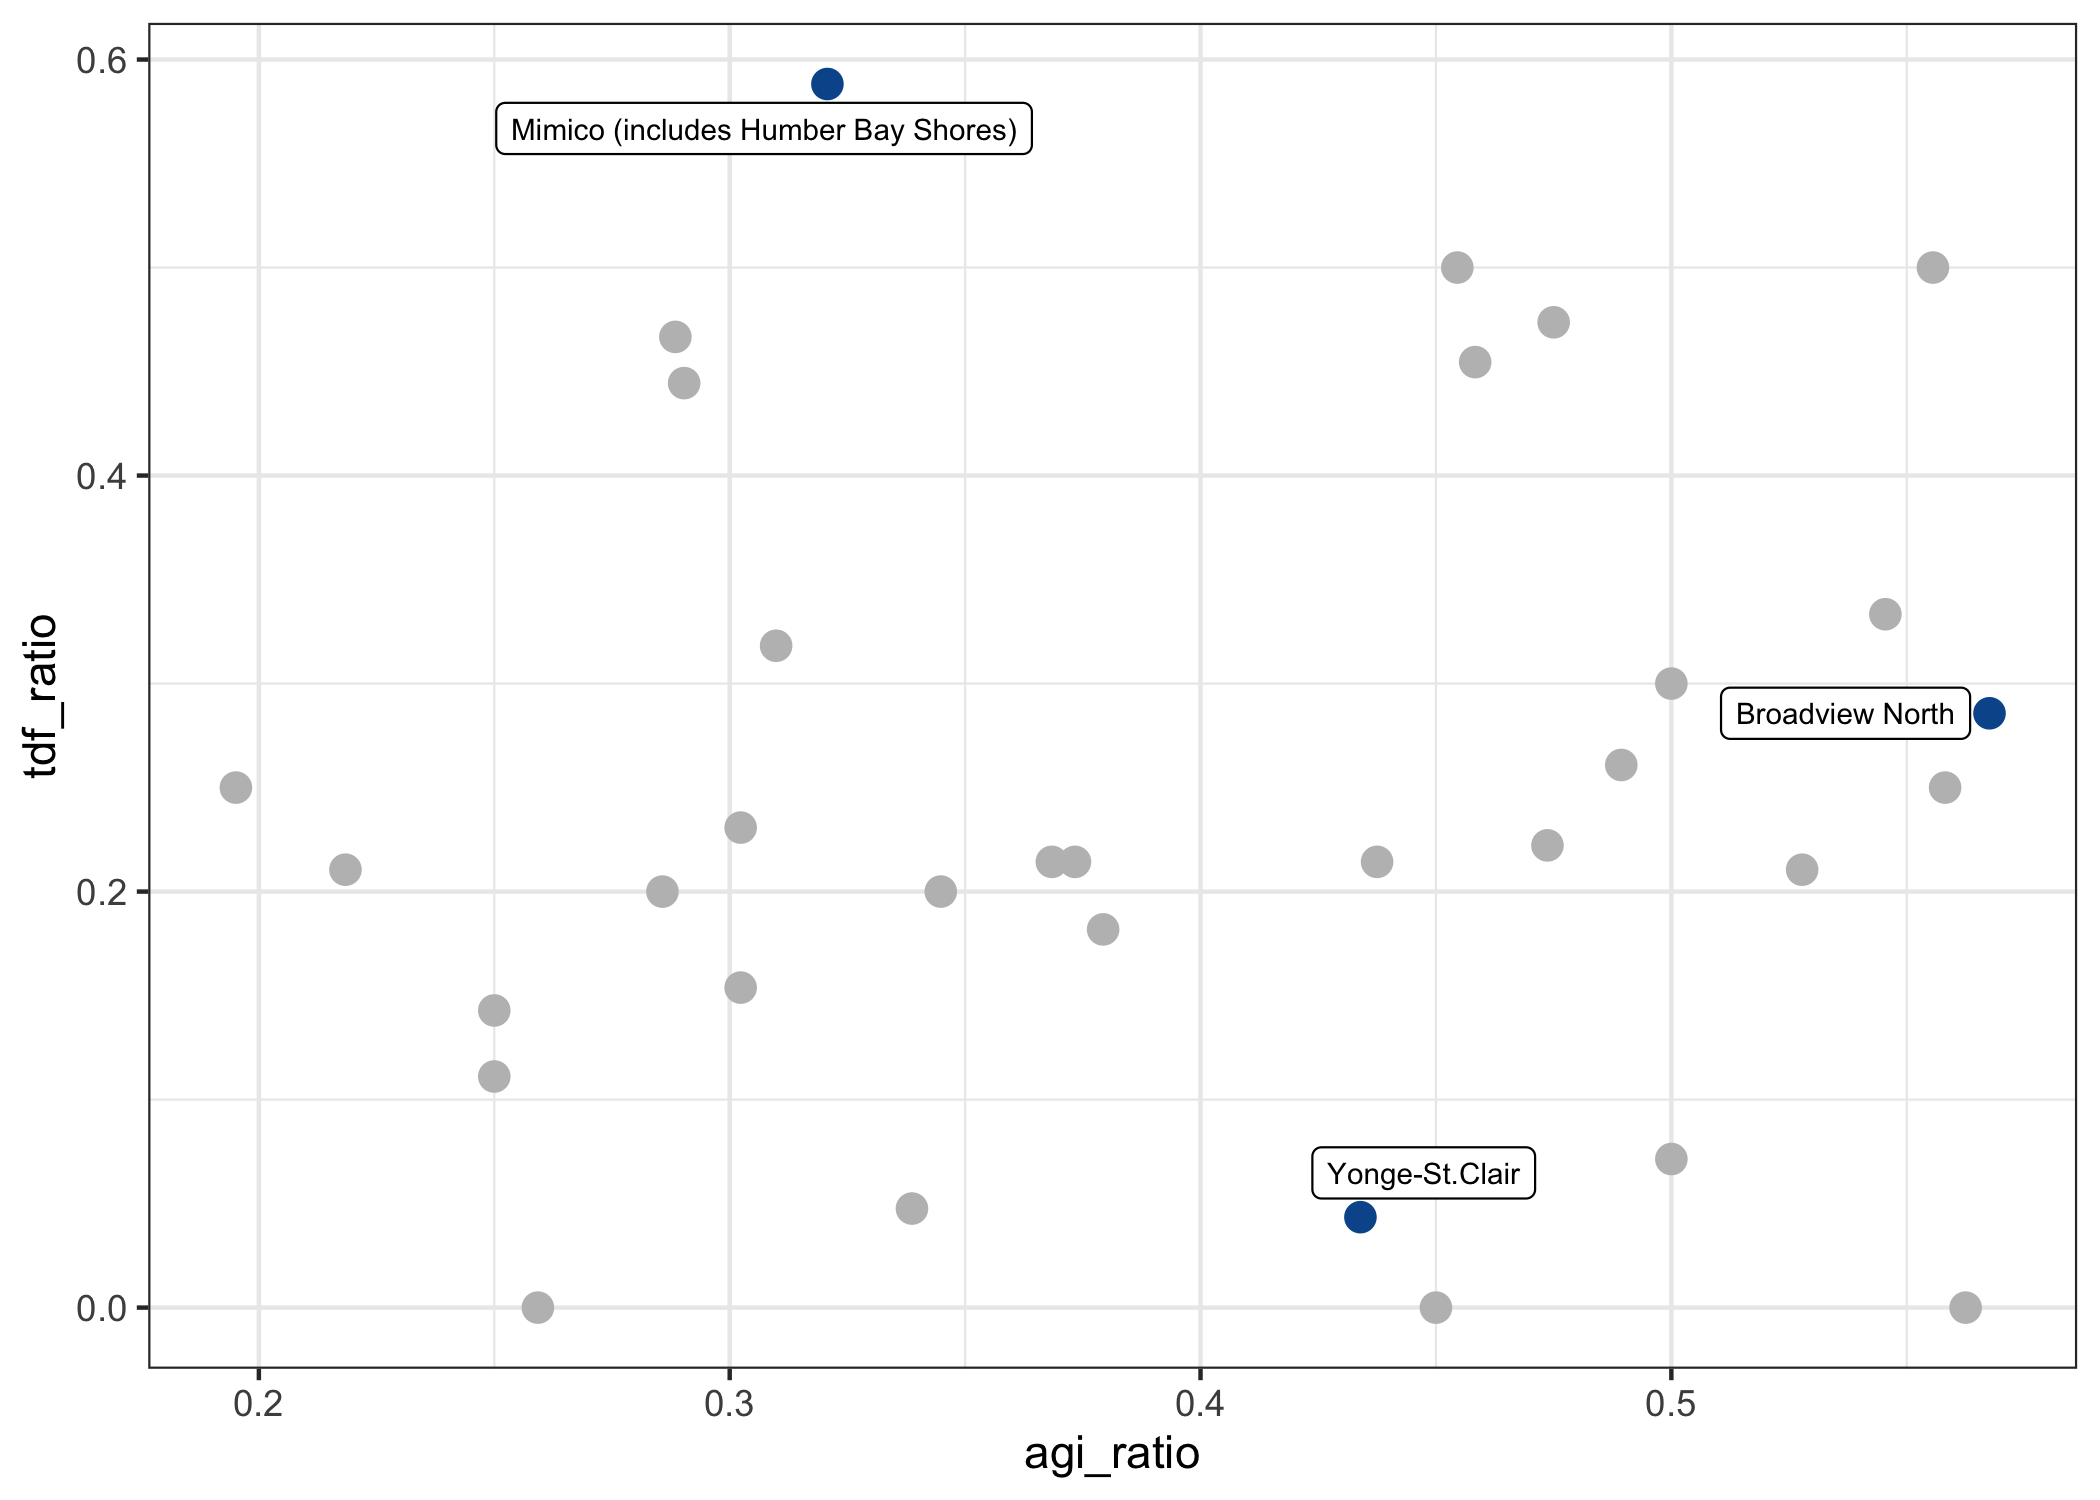
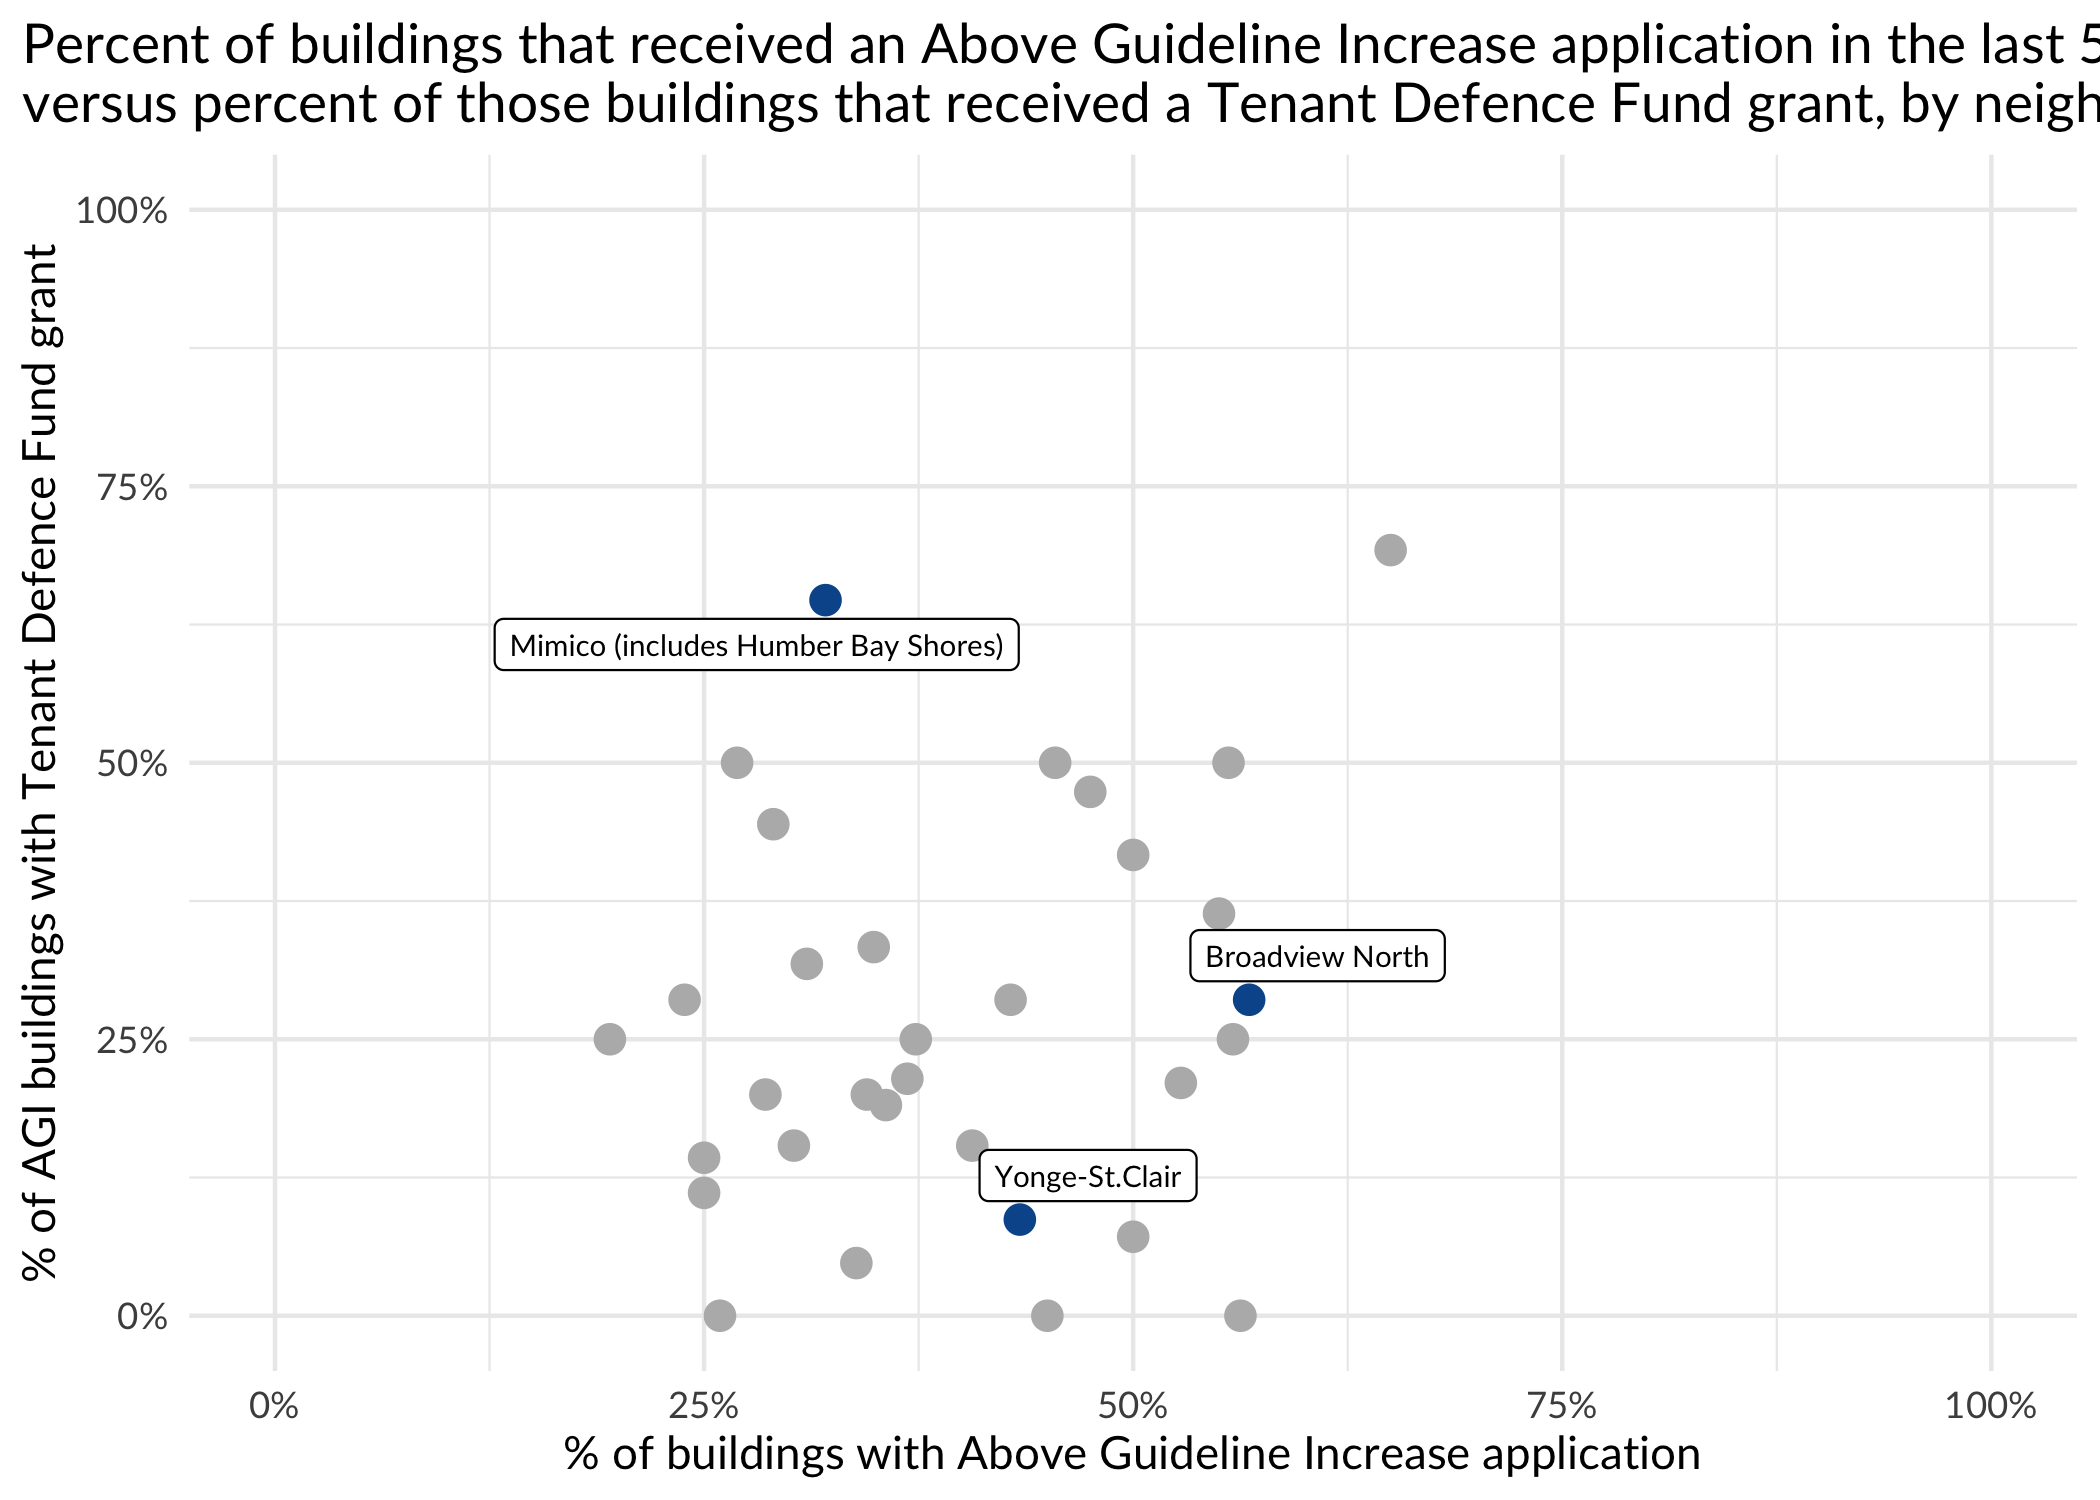
Render data story

diff --git a/stories/Story-1.md b/stories/Story-1.md
@@ -7,15 +7,23 @@ Stories1
     ##    <chr>                <int> <int> <int>              <dbl>     <dbl>     <dbl>
     ##  1 Weston                  43    13     2            0.0712      0.302    0.154 
     ##  2 Humewood-Cedarvale      71    22     7            0.0208      0.310    0.318 
-    ##  3 Mimico (includes Hu…    53    17    10            0.0206      0.321    0.588 
-    ##  4 Annex                   62    21     1            0.0153      0.339    0.0476
-    ##  5 Mount Pleasant West     75    28     6            0.0142      0.373    0.214 
-    ##  6 Westminster-Branson     33    18     6            0.0127      0.545    0.333 
-    ##  7 Willowridge-Marting…    19     9     2            0.012       0.474    0.222 
+    ##  3 Mimico (includes Hu…    53    17    11            0.0190      0.321    0.647 
+    ##  4 Mount Pleasant West     75    28     7            0.0162      0.373    0.25  
+    ##  5 Annex                   62    21     1            0.0153      0.339    0.0476
+    ##  6 South Parkdale          88    21     6            0.0140      0.239    0.286 
+    ##  7 Westminster-Branson     33    18     6            0.0127      0.545    0.333 
     ##  8 Islington-City Cent…    22    10     5            0.0116      0.455    0.5   
     ##  9 Bedford Park-Nortown    29    10     2            0.00975     0.345    0.2   
-    ## 10 High Park North         24    11     5            0.00876     0.458    0.455 
+    ## 10 High Park North         24    12     5            0.00876     0.5      0.417 
     ## # … with 23 more rows
+
+    ## # A tibble: 4 × 4
+    ##   neighbourhood       name                    value_thomas value_sharla
+    ##   <chr>               <chr>                          <dbl>        <dbl>
+    ## 1 Westminster-Branson reduced_increase_by_avg      0.0127       0.0109 
+    ## 2 Ionview             reduced_increase_by_avg      0.0071       0.0059 
+    ## 3 North St.James Town reduced_increase_by_avg      0.0041       0.00453
+    ## 4 Wexford/Maryvale    reduced_increase_by_avg      0.00398      0.00331
 
 ![](Story-1_files/figure-gfm/unnamed-chunk-3-1.png)<!-- -->
 
@@ -57,13 +65,13 @@ Mimico (includes Humber Bay Shores)
 17
 </td>
 <td style="text-align:right;">
-10
+11
 </td>
 <td style="text-align:left;">
 32.1%
 </td>
 <td style="text-align:left;">
-58.8%
+64.7%
 </td>
 </tr>
 <tr>
@@ -97,13 +105,13 @@ Yonge-St.Clair
 23
 </td>
 <td style="text-align:right;">
-1
+2
 </td>
 <td style="text-align:left;">
 43.4%
 </td>
 <td style="text-align:left;">
-4.3%
+8.7%
 </td>
 </tr>
 </tbody>
